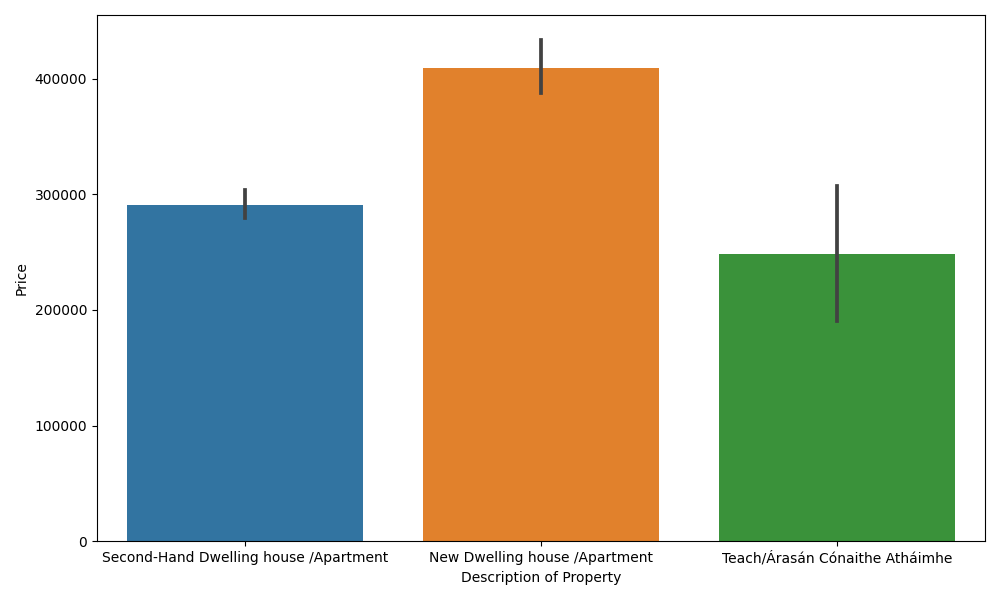
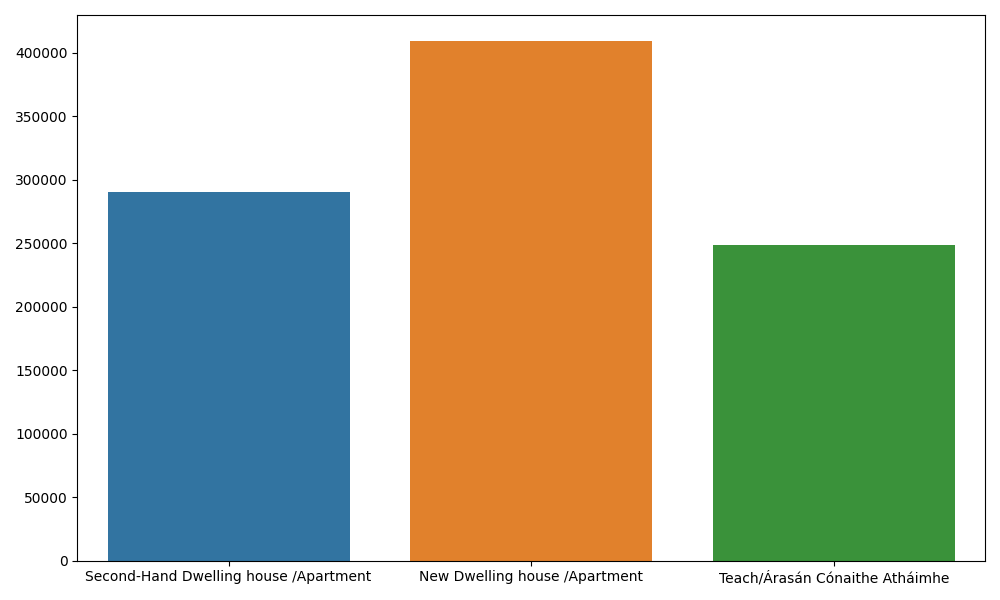
Added graph showing average price for new builds vs second hand vs the irish translation

diff --git a/visualisation.py b/visualisation.py
@@ -60,9 +60,22 @@ def line_chart_new_v_old_2020():
     df_new_v_old = ppr2020.df_residential_property
     df_new_v_old = df_new_v_old[["Description of Property", "Price"]]
 
+    type_list = df_new_v_old["Description of Property"].unique()
+
+    # loop through type list, and grab mean value of price for each df by type before storing in a dict
+    type_average_price = {}
+
+    for i in range(len(type_list)):
+        df_select_type = df_new_v_old[df_new_v_old["Description of Property"] == type_list[i]]
+        grab_mean_price = df_select_type["Price"].mean()
+        type_average_price["{0}".format(type_list[i])] = round(grab_mean_price, 2)
+
+    # Convert dictionary back to dataframe
+    df_new_v_old = pd.DataFrame.from_dict([type_average_price])
+
     plt.figure(figsize=(10, 6))
 
-    sns.barplot(data=df_new_v_old, x='Description of Property', y='Price')
+    sns.barplot(data=df_new_v_old)
 
     plt.tight_layout()
     plt.savefig("Generated Graphs/new_v_old_2020.png")

diff --git a/tidy_data_set_ppr_2010_2021.py b/tidy_data_set_ppr_2010_2021.py
@@ -7,8 +7,6 @@ df_2010_property_price = pd.read_csv("Property_Price_Register_Ireland-28-05-2021
 # Ensure that date column is in datetime
 df_2010_property_price["SALE_DATE"] = pd.to_datetime(df_2010_property_price["SALE_DATE"], format="mixed")
 
-print(df_2010_property_price.head())
-
 def review_columns_not_null():
     global df_2010_property_price
 
